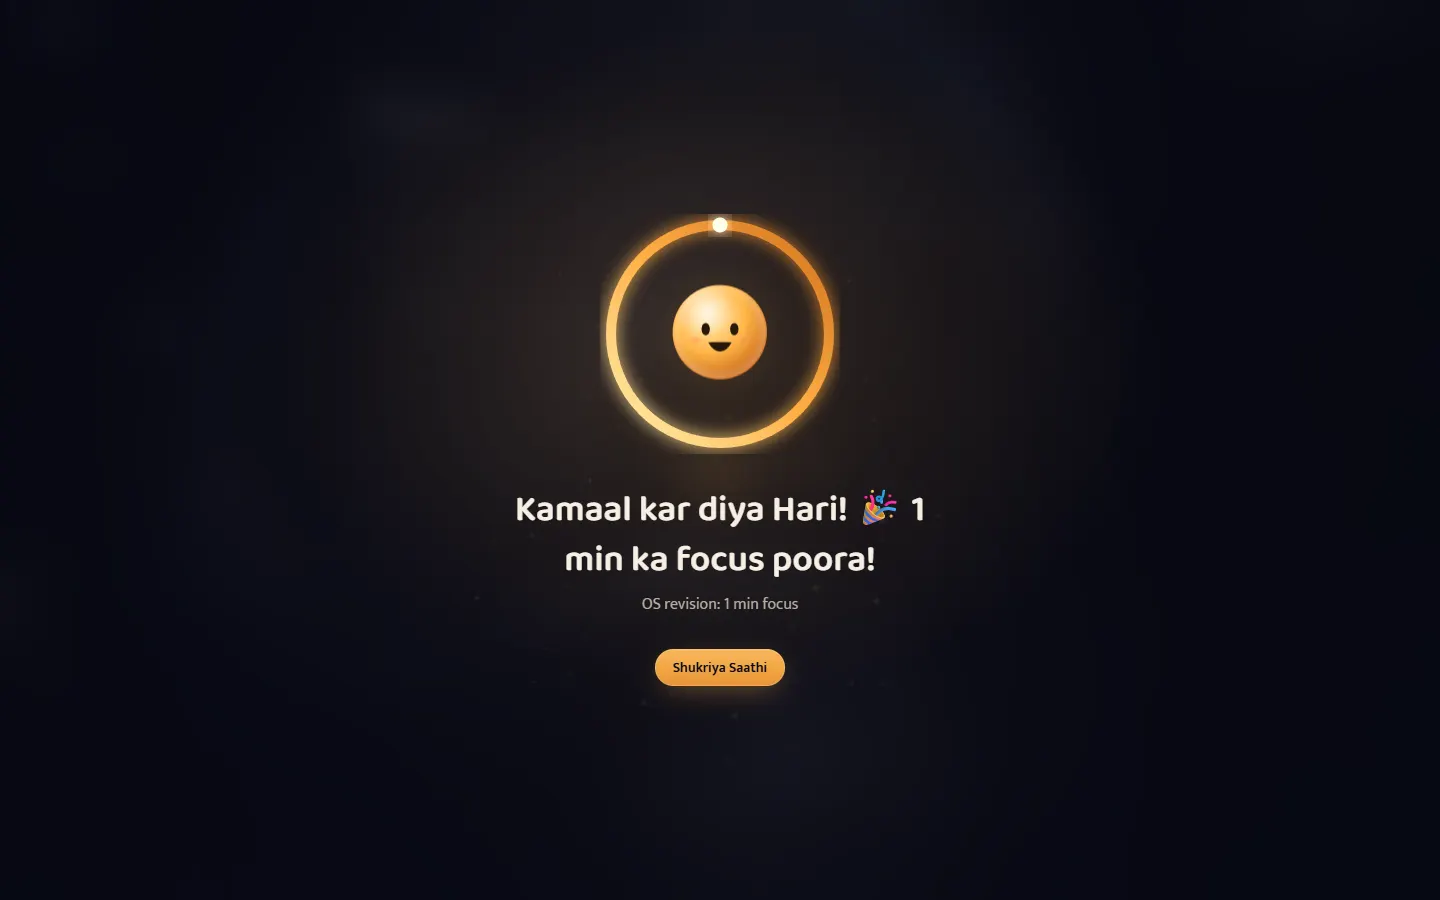
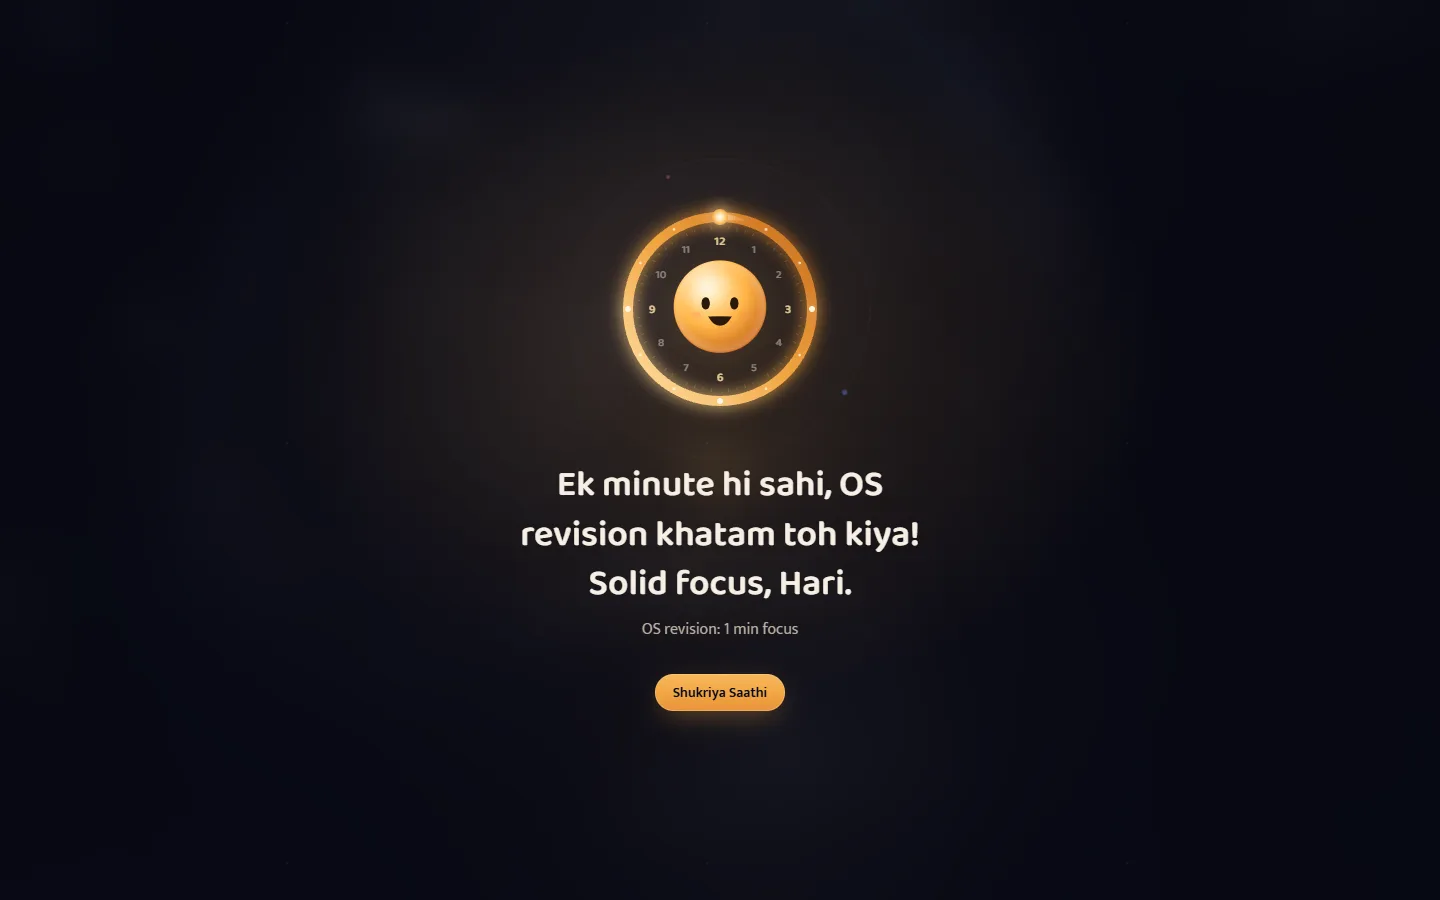
Focus timer as a cosmic clock: orbit ring with hour numbers, stars, planet dots and a comet-trail planet
- FocusRing: the arc is an orbit; 12, 1 ... 11 like a clock, a star at each hour, glowing planet
  dots at 12/3/6/9, faint minute ticks, an outer orbit and two tiny far planets (still with
  reduced motion); the time planet turns along the orbit with a comet trail
- Big view: task name on top, 01:24:10 style digits, 'Khatam hoga 4:45 PM par'
- Sticky bar: the same orbit in miniature with its moving planet
- New README timer screenshots, plus the phone view

Changed region(s): [[0.3438, 0.2178, 0.6562, 0.8089]]

diff --git a/client/src/components/FocusRing.jsx b/client/src/components/FocusRing.jsx
@@ -1,48 +1,150 @@
-// The timer ring: a golden arc that empties as time passes, with a small glowing "planet" riding its
-// end (the orbit theme of the landing page). `fraction` = time left / total, 0..1.
+import { useId } from 'react';
+import { useReducedMotion } from 'motion/react';
 
-export function FocusRing({ size = 280, stroke = 10, fraction = 1, glow = true, children, flash = false }) {
-  const r = (size - stroke) / 2 - 6;
-  const c = 2 * Math.PI * r;
+// The focus timer as a "cosmic clock": Saathi's face is the sun in the middle, the golden arc is
+// an orbit that empties as time passes, and a small glowing planet rides its end with a comet
+// trail. Around it: hour numbers 12, 1 ... 11 like a clock, a small star at each hour, brighter
+// "planet dots" at 12, 3, 6 and 9, faint minute ticks, a second faint orbit for depth and two tiny
+// far planets drifting slowly (index.css .far-orbit). `fraction` = time left / total, 0..1.
+// detail="mini" is the small version for the sticky bar: just the orbit, the arc and the planet.
+// With reduced motion nothing moves except the arc itself (once a second, no easing).
+
+const TAU = Math.PI * 2;
+const at = (cx, r, angle) => ({ x: cx + r * Math.cos(angle), y: cx + r * Math.sin(angle) });
+// Clock angle: 0 at 12 o'clock, going clockwise.
+const clock = (turn) => -Math.PI / 2 + TAU * turn;
+
+export function FocusRing({ size = 280, stroke = 10, fraction = 1, glow = true, detail = 'full', children, flash = false }) {
+  const reduce = useReducedMotion();
+  const uid = useId().replace(/:/g, '');
+  const full = detail === 'full';
+  const cx = size / 2;
+  // Room outside the arc for the outer orbit (full) or just the planet's glow (mini).
+  const r = full ? cx - stroke * 2 - 8 : cx - stroke / 2 - 2;
+  const c = TAU * r;
   const f = Math.max(0, Math.min(1, fraction));
-  const angle = -Math.PI / 2 + 2 * Math.PI * f;
-  const dot = { x: size / 2 + r * Math.cos(angle), y: size / 2 + r * Math.sin(angle) };
-  const id = `ring-${size}`;
+  const ease = reduce ? 'none' : '1s linear';
+  const fontSize = Math.max(11, Math.round(size / 24));
+  const numberR = r - stroke / 2 - fontSize - 8;
+
   return (
     <div className="relative grid place-items-center" style={{ width: size, height: size }}>
       <svg width={size} height={size} overflow="visible" className={`absolute inset-0 overflow-visible ${flash ? 'ring-flash' : ''}`} aria-hidden>
         <defs>
-          <linearGradient id={`${id}-g`} x1="0" y1="0" x2="1" y2="1">
+          <linearGradient id={`${uid}-g`} x1="0" y1="0" x2="1" y2="1">
             <stop offset="0" stopColor="#FFE3A8" />
             <stop offset="0.5" stopColor="#F2A541" />
             <stop offset="1" stopColor="#C46A1C" />
           </linearGradient>
-          <filter id={`${id}-glow`} filterUnits="userSpaceOnUse" x={-stroke * 3} y={-stroke * 3} width={size + stroke * 6} height={size + stroke * 6}>
-            <feGaussianBlur stdDeviation={stroke * 0.8} result="b" />
+          <radialGradient id={`${uid}-p`}>
+            <stop offset="0" stopColor="#FFFFFF" />
+            <stop offset="0.45" stopColor="#FFE3A8" />
+            <stop offset="1" stopColor="#F2A541" />
+          </radialGradient>
+          <filter id={`${uid}-glow`} filterUnits="userSpaceOnUse" x={-size} y={-size} width={size * 3} height={size * 3}>
+            <feGaussianBlur stdDeviation={Math.max(1.5, stroke * 0.8)} result="b" />
             <feMerge>
               <feMergeNode in="b" />
               <feMergeNode in="SourceGraphic" />
             </feMerge>
           </filter>
         </defs>
-        {/* the track: a faint orbit line */}
-        <circle cx={size / 2} cy={size / 2} r={r} fill="none" stroke="rgb(255 255 255 / 0.08)" strokeWidth={stroke} />
-        <circle cx={size / 2} cy={size / 2} r={r} fill="none" stroke="rgb(255 255 255 / 0.12)" strokeWidth="1" strokeDasharray="2 7" />
+
+        {full && (
+          <>
+            {/* two tiny far planets on wide, tilted orbits: barely there, just depth */}
+            <g opacity="0.55">
+              <circle cx={cx} cy={cx} r={cx + 30} fill="none" stroke="rgb(226 232 255 / 0.05)" />
+              <g className={reduce ? '' : 'far-orbit'} style={{ transformBox: 'view-box', transformOrigin: `${cx}px ${cx}px`, animationDuration: '70s' }}>
+                <circle cx={cx + cx + 30} cy={cx} r="2.6" fill="#6C8CFF" opacity="0.7" />
+              </g>
+              <g className={reduce ? '' : 'far-orbit far-orbit-reverse'} style={{ transformBox: 'view-box', transformOrigin: `${cx}px ${cx}px`, animationDuration: '110s' }}>
+                <circle cx={cx} cy={-22} r="1.8" fill="#E879B9" opacity="0.6" />
+              </g>
+            </g>
+            {/* outer orbit for depth */}
+            <circle cx={cx} cy={cx} r={r + stroke + 8} fill="none" stroke="rgb(255 227 168 / 0.07)" strokeWidth="1" strokeDasharray="1 5" />
+          </>
+        )}
+
+        {/* the orbit track */}
+        <circle cx={cx} cy={cx} r={r} fill="none" stroke="rgb(255 255 255 / 0.07)" strokeWidth={stroke} />
+        <circle cx={cx} cy={cx} r={r} fill="none" stroke="rgb(255 227 168 / 0.16)" strokeWidth="1" />
+
+        {full && (
+          <>
+            {/* minute ticks, faint, just inside the orbit */}
+            {Array.from({ length: 60 }, (_, i) => {
+              if (i % 5 === 0) return null;
+              const a = clock(i / 60);
+              const p1 = at(cx, r - stroke / 2 - 4, a);
+              const p2 = at(cx, r - stroke / 2 - 7, a);
+              return <line key={i} x1={p1.x} y1={p1.y} x2={p2.x} y2={p2.y} stroke="rgb(255 248 235 / 0.16)" strokeWidth="1" strokeLinecap="round" />;
+            })}
+            {/* hour numbers like a clock */}
+            {Array.from({ length: 12 }, (_, i) => {
+              const p = at(cx, numberR, clock(i / 12));
+              const quarter = i % 3 === 0;
+              return (
+                <text
+                  key={i}
+                  x={p.x}
+                  y={p.y}
+                  textAnchor="middle"
+                  dominantBaseline="central"
+                  fontFamily="'Baloo 2', sans-serif"
+                  fontWeight={quarter ? 600 : 500}
+                  fontSize={quarter ? fontSize + 1 : fontSize}
+                  fill={quarter ? 'rgb(255 227 168 / 0.85)' : 'rgb(245 239 230 / 0.45)'}
+                >
+                  {i === 0 ? 12 : i}
+                </text>
+              );
+            })}
+          </>
+        )}
+
+        {/* the time left: a golden arc from 12 o'clock */}
         <circle
-          cx={size / 2}
-          cy={size / 2}
+          cx={cx}
+          cy={cx}
           r={r}
           fill="none"
-          stroke={`url(#${id}-g)`}
+          stroke={`url(#${uid}-g)`}
           strokeWidth={stroke}
           strokeLinecap="round"
           strokeDasharray={c}
           strokeDashoffset={c * (1 - f)}
-          transform={`rotate(-90 ${size / 2} ${size / 2})`}
-          filter={glow ? `url(#${id}-glow)` : undefined}
-          style={{ transition: 'stroke-dashoffset 1s linear' }}
+          transform={`rotate(-90 ${cx} ${cx})`}
+          filter={glow ? `url(#${uid}-glow)` : undefined}
+          style={{ transition: `stroke-dashoffset ${ease}` }}
         />
-        {f > 0.001 && <circle cx={dot.x} cy={dot.y} r={stroke * 0.75} fill="#FFF3DC" filter={glow ? `url(#${id}-glow)` : undefined} style={{ transition: 'cx 1s linear, cy 1s linear' }} />}
+
+        {full &&
+          /* a small star at every hour; brighter planet dots at 12, 3, 6 and 9 (on top of the arc) */
+          Array.from({ length: 12 }, (_, i) => {
+            const p = at(cx, r, clock(i / 12));
+            return i % 3 === 0 ? (
+              <circle key={i} cx={p.x} cy={p.y} r={Math.max(2.6, stroke * 0.3)} fill="#FFF6E4" filter={glow ? `url(#${uid}-glow)` : undefined} />
+            ) : (
+              <circle key={i} cx={p.x} cy={p.y} r="1.3" fill="rgb(255 248 235 / 0.75)" />
+            );
+          })}
+
+        {/* the time planet with a comet trail behind it (where it came from) */}
+        {/* Drawn at 12 o'clock and turned into place, so any change (+5 min, resume) slides
+            along the orbit instead of cutting across it. */}
+        {f > 0.001 && (
+          <g style={{ transformBox: 'view-box', transformOrigin: `${cx}px ${cx}px`, transform: `rotate(${f * 360}deg)`, transition: `transform ${ease}` }}>
+            {full &&
+              Array.from({ length: 9 }, (_, i) => {
+                const t = (i + 1) / 9;
+                const p = at(cx, r, clock(0) + t * 0.32);
+                return <circle key={i} cx={p.x} cy={p.y} r={stroke * 0.42 * (1 - t * 0.85)} fill="#FFE3A8" opacity={0.55 * (1 - t)} />;
+              })}
+            <circle cx={cx} cy={cx - r} r={full ? stroke * 0.8 : Math.max(2.4, stroke * 0.85)} fill={`url(#${uid}-p)`} filter={glow ? `url(#${uid}-glow)` : undefined} />
+          </g>
+        )}
       </svg>
       <div className="relative">{children}</div>
     </div>

diff --git a/client/src/components/FocusView.jsx b/client/src/components/FocusView.jsx
@@ -1,11 +1,12 @@
 import { useEffect, useMemo, useState } from 'react';
 import { AnimatePresence, motion, useReducedMotion } from 'motion/react';
 import { Check, Minimize2, Pause, Play, Plus, X } from 'lucide-react';
-import { clockText, spokenLength, useFocus } from '../app/focus.js';
+import { clockText, endTimeText, spokenLength, useFocus } from '../app/focus.js';
 import { FocusRing } from './FocusRing.jsx';
 import { Face } from './Face.jsx';
 
-// The big focus view: a golden ring emptying with the time, big numbers, and Saathi's face, whose
+// The big focus view: the cosmic clock (FocusRing) emptying with the time, big numbers, when it
+// will end, and Saathi's face as the sun in the middle, whose
 // mood follows the clock (happy at the start, thoughtful midway, a little tense near the end).
 // When the work is done: a short celebration (gold stars, the ring flashes full, Saathi cheers,
 // a line from Saathi and how long it took). Esc or the minimise button goes back to the small bar.
@@ -44,6 +45,7 @@ export function FocusView({ user }) {
           className="fixed inset-0 z-[55] flex flex-col items-center overflow-y-auto bg-[#070914]/80 px-4 backdrop-blur-xl"
         >
           <div aria-hidden className="pointer-events-none absolute inset-0 -z-10 bg-[radial-gradient(40rem_30rem_at_50%_40%,rgb(242_165_65/0.14),transparent_70%)]" />
+          <div aria-hidden className="focus-stars pointer-events-none absolute inset-0 -z-10" />
           {f.celebration ? <Celebration user={user} /> : <Running />}
         </motion.div>
       )}
@@ -74,21 +76,28 @@ function Running() {
 
   return (
     <>
-      <div className="flex w-full max-w-xl items-center justify-between pt-[max(env(safe-area-inset-top),16px)]">
-        <p className="min-w-0 truncate text-sm text-faint">Focus: {focus.label}</p>
+      <div className="flex w-full max-w-xl justify-end pt-[max(env(safe-area-inset-top),16px)]">
         <button onClick={f.close} aria-label="Chhota karo" title="Chhota karo" className="grid h-10 w-10 place-items-center rounded-full text-faint transition hover:bg-surface hover:text-text">
           <Minimize2 size={18} />
         </button>
       </div>
 
-      <div className="flex flex-1 flex-col items-center justify-center py-6">
-        <FocusRing size={small ? 250 : 320} stroke={small ? 9 : 11} fraction={fraction}>
-          <Face size={small ? 96 : 120} expression={moodFor(focus, fraction, timeUp)} followCursor={false} />
+      <div className="flex w-full flex-1 flex-col items-center justify-center pb-6">
+        <p className="text-sm text-faint">Focus</p>
+        <h2 className="mb-8 max-w-full truncate px-2 text-center font-display text-xl font-semibold sm:mb-10 sm:text-2xl">{focus.label}</h2>
+        <FocusRing size={small ? 260 : 340} stroke={small ? 8 : 10} fraction={fraction}>
+          <Face size={small ? 84 : 112} expression={moodFor(focus, fraction, timeUp)} followCursor={false} />
         </FocusRing>
-        <p className={`mt-6 font-display text-[3.75rem] font-semibold leading-none tabular-nums tracking-tight sm:text-[4.75rem] ${timeUp ? 'text-gold' : ''}`} aria-live="polite">
+        <p className={`mt-8 font-display text-[3.5rem] font-semibold leading-none tabular-nums tracking-tight sm:text-[4.75rem] ${timeUp ? 'text-gold' : ''}`} aria-live="polite">
           {timeUp ? '00:00' : clockText(remainingMs)}
         </p>
-        <p className="mt-2 text-muted">{timeUp ? 'Time pura! Ho gaya?' : focus.status === 'paused' ? 'Ruka hua hai. Taiyaar ho toh chalu karo.' : 'Focus mode on. Phone side mein rakho.'}</p>
+        <p className="mt-2 text-muted">
+          {timeUp
+            ? 'Time pura! Ho gaya?'
+            : focus.status === 'paused'
+              ? 'Ruka hua hai. Taiyaar ho toh chalu karo.'
+              : `Khatam hoga ${endTimeText(remainingMs)} par. Phone side mein rakho.`}
+        </p>
 
         <div className="mt-8 flex flex-wrap items-center justify-center gap-3">
           {timeUp ? (

diff --git a/client/src/index.css b/client/src/index.css
@@ -373,3 +373,31 @@ html.lenis body {
 @media (prefers-reduced-motion: reduce) {
   .ring-flash { animation: none; }
 }
+
+/* Focus timer: the two tiny far planets drift around the cosmic clock (off with reduced motion). */
+.far-orbit {
+  animation: far-orbit 70s linear infinite;
+}
+.far-orbit-reverse {
+  animation-direction: reverse;
+}
+@keyframes far-orbit {
+  to { transform: rotate(360deg); }
+}
+/* Faint static stars behind the big timer, the same tile as the night-sky background. */
+.focus-stars {
+  opacity: 0.5;
+  background-image:
+    radial-gradient(1px 1px at 23px 41px, rgb(255 248 235 / 0.8), transparent 60%),
+    radial-gradient(1px 1px at 141px 97px, rgb(255 248 235 / 0.5), transparent 60%),
+    radial-gradient(1.4px 1.4px at 287px 23px, rgb(255 236 200 / 0.7), transparent 60%),
+    radial-gradient(1px 1px at 377px 211px, rgb(210 220 255 / 0.6), transparent 60%),
+    radial-gradient(1px 1px at 89px 283px, rgb(255 248 235 / 0.45), transparent 60%),
+    radial-gradient(1.2px 1.2px at 211px 337px, rgb(255 248 235 / 0.6), transparent 60%),
+    radial-gradient(1px 1px at 331px 401px, rgb(210 220 255 / 0.45), transparent 60%),
+    radial-gradient(1px 1px at 17px 389px, rgb(255 236 200 / 0.5), transparent 60%);
+  background-size: 420px 420px;
+}
+@media (prefers-reduced-motion: reduce) {
+  .far-orbit { animation: none; }
+}

diff --git a/client/src/app/focus.js b/client/src/app/focus.js
@@ -98,14 +98,19 @@ export function useFocusState() {
   return { focus, view, startFor, celebration, remainingMs, timeUp, ...actions };
 }
 
-/** 2:05:09 or 25:00, for the timer display. */
+/** 02:05:09 or 25:00, for the timer display. */
 export function clockText(ms) {
   const total = Math.ceil(ms / 1000);
   const h = Math.floor(total / 3600);
   const m = Math.floor((total % 3600) / 60);
   const s = total % 60;
   const two = (n) => String(n).padStart(2, '0');
-  return h ? `${h}:${two(m)}:${two(s)}` : `${two(m)}:${two(s)}`;
+  return h ? `${two(h)}:${two(m)}:${two(s)}` : `${two(m)}:${two(s)}`;
+}
+
+/** "4:45 PM": when a running timer will end, in this device's time. */
+export function endTimeText(remainingMs) {
+  return new Date(Date.now() + remainingMs).toLocaleTimeString('en-IN', { hour: 'numeric', minute: '2-digit', hour12: true }).toUpperCase();
 }
 
 /** "2 ghante 5 min" / "45 min", for how long someone focused. */

diff --git a/client/src/components/FocusBar.jsx b/client/src/components/FocusBar.jsx
@@ -22,7 +22,7 @@ export function FocusBar() {
           aria-label={`Focus timer: ${focus.label}, ${f.timeUp ? 'time pura' : clockText(f.remainingMs)} baaki. Bada dekho`}
           className="glass relative z-30 mx-auto mt-1 flex max-w-[calc(100%-2rem)] items-center gap-3 rounded-full bg-ink/70 py-1.5 pl-1.5 pr-4 shadow-[0_0_24px_-6px_rgb(242_165_65/0.5)] transition hover:bg-ink/90"
         >
-          <FocusRing size={34} stroke={3.5} fraction={fraction} glow={false}>
+          <FocusRing size={34} stroke={3} fraction={fraction} detail="mini">
             {focus.status === 'paused' ? <Pause size={12} className="text-gold" /> : <Timer size={13} className="text-gold" />}
           </FocusRing>
           <span className="min-w-0 truncate text-sm text-muted">{focus.label}</span>
